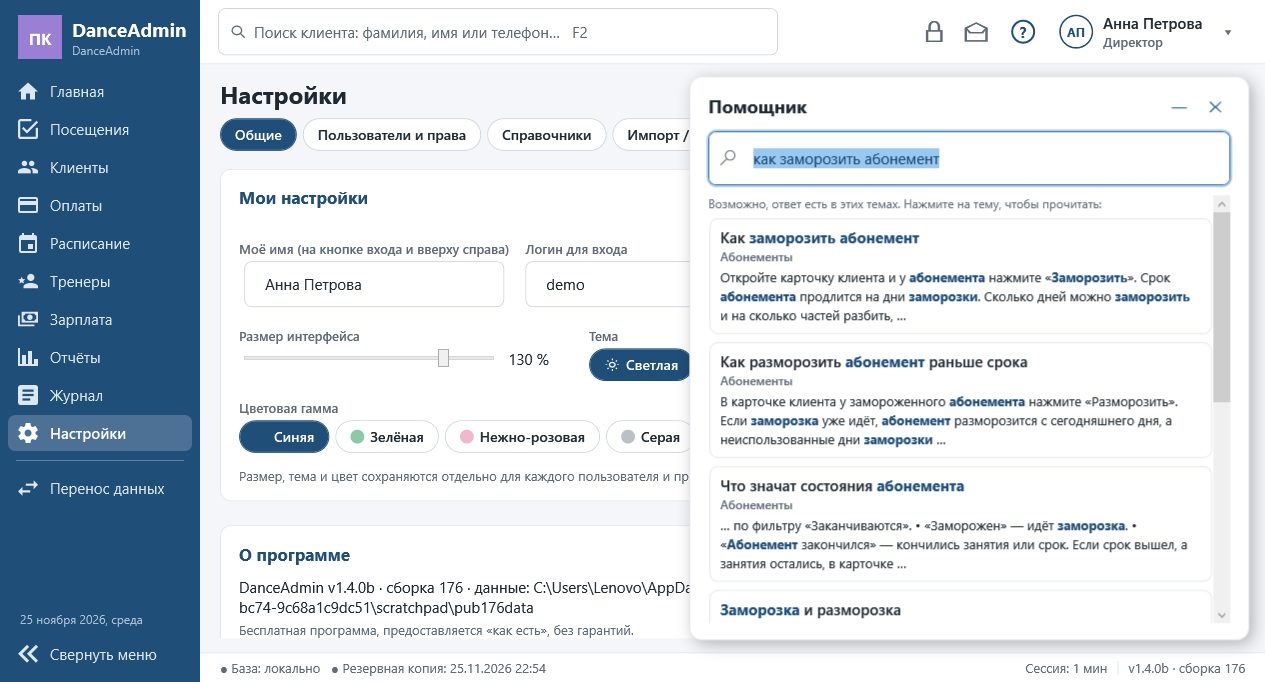
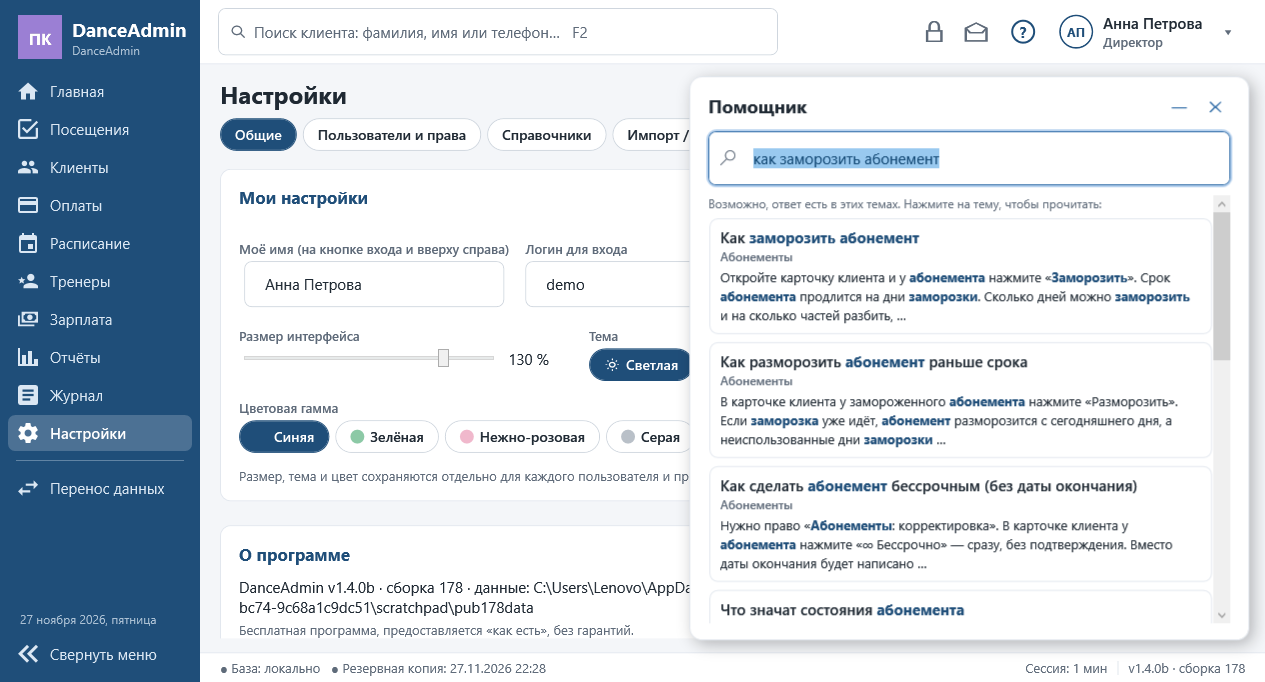
v1.4.0-beta.178

diff --git a/CHANGELOG.md b/CHANGELOG.md
@@ -2,6 +2,24 @@
 
 Формат версий: `Major.Minor.Patch.Build` (ТЗ §24).
 
+## 1.4.0b, сборка 178 — 27.11.2026
+
+- **Бессрочный абонемент:** в карточке клиента «∞ Бессрочно» (право «Абонементы: корректировка», без подтверждения) — `Membership.NoEnd` (миграция `V178_MembershipNoEnd`), `MembershipRules.IsPerpetual` = индивидуальное или `NoEnd`; вместо даты окончания «бессрочно» (и после «куплен …», и в PDF истории), в «Посещениях» дата окончания не пишется; «заканчивается» — только по оставшимся занятиям. Только у абонементов с числом занятий. «Вернуть срок» (`SalesService.ReturnTerm`, окно `ReturnTermWindow`): «Действует до» — прежний срок с заморозками; у не начатого — без даты. `MembershipRules.Start` у «бессрочного» тоже считает обычный `EndDate` (для возврата). Заморозка бессрочного не пишет «9999» (окно и журнал); «Требует внимания» на «Главной» — «бессрочно».
+- **Причины заморозки** в «Расширенных» (`freeze.reasons`, `Settings.FreezeReasonList`, «Вернуть стандартные»), кнопки в окне «Заморозка» — из списка; входят в экспорт «Расширенных настроек».
+- **Галочки:** во всей программе переключаются только щелчком по квадратику (`CheckBoxHitArea`, обработчик класса `CheckBox`); подпись — подсказки работают, ссылки и кнопки внутри подписи тоже; самопроверка в режиме снимков `checkbox_hit_area.txt`.
+- **«Что нового»:** утверждённый текст по сборкам `docs/WHATS_NEW.txt` (встроен как `WHATS_NEW.txt`, разбор — `Core/Services/WhatsNew`); сотруднику — пункты сборок новее той, что он видел (`whatsnew.seen.<id>`) или что стояла до обновления (`app.updated_from`; база без записанной сборки — от 168). release-notes в окно больше не идут.
+
+## 1.4.0b, сборка 177 — 27.11.2026
+
+- **Перенос данных → архив:** в строке неперенесённого клиента кнопка «В архив» слева от группы — без подтверждения (`DataTransferService.Archive`, хватает права «Перенос данных»). Третья вкладка «Архив» (`Mode` todo/done/archive, `ArchivedRowVM`): имя — ссылка на карточку, телефон, «В архиве с …» (по журналу), «Вернуть из архива» → в «Неперенесённые» (`Unarchive`, `TransferState = 0`). Шапка и строка переноса вынесены в `Views/TransferTemplates.xaml`.
+- **«Перенос не сделан»:** при включённом «Переносе данных» у неперенесённых неархивных клиентов красный ⚠ справа от имени в «Посещениях» (списки, параллельные, карточки, поиск «добавить») и «Клиентах» (таблица, карточки) — `TransferGate`, конвертер `TransferVis`, стиль `TransferIcon`. Отметка такого клиента запрещена (`AttendanceService.Mark`/`UnfreezeAndMark` → `TransferNeededException`); любая отметка в программе (строка, поиск, «отметить всех», разморозка, карточка клиента, продажа с отметкой) сначала показывает «Сначала перенос данных»: «Сделать сейчас» — окно переноса этого клиента поверх (`TransferGate.ShowTransfer`), после «Перенести» отметка продолжается; без права «Перенос данных» — только «Понятно».
+- Клиент, заведённый в программе при включённом переносе, сразу «обработан» (`TransferState = 1`); «Перенести» с пустыми полями больше не ошибка — клиент в «Перенесённых» с пометкой «без абонементов и долга».
+- **Право «Настройки → Обновления»** (`settings.updates`): «⬆ Доступна версия…», «Проверить обновления» и «Обновить сейчас» — директор и роли с этим правом (`Updater.Allowed`). По умолчанию ни у кого.
+- **«Пользователи и права»:** создавать, переименовывать и удалять роли и наборы прав может и сотрудник с этим правом, права любой роли (и своей) — тоже (`RoleService.DemandRoles`, `SettingsVM.CanManageRoles`).
+- **Логин и пароль** (`AuthService.NormalizeLogin`, `ValidatePassword`): логин — английские буквы, цифры, «_» «.», 2–30 символов, уникальный (и при создании пользователя); пароль — английские буквы, цифры, «#» «_», от 4 символов; в сообщении — какие символы нельзя. Прежние логины и пароли работают до первой смены (проверка только при задании).
+- **Меню у имени вверху:** «Закрытие смены» перед «Выход» (право «Закрытие смены», как кнопка на «Главной»).
+- **«Что нового» после обновления** (`WhatsNewWindow`): каждому сотруднику один раз при входе — строки текущей версии из встроенного `release-notes.txt` без исправлений, кнопка «Прочитал(-ла)». Настройки `app.build`, `app.updated_build`, `whatsnew.seen.<id>`; база с работой без `app.build` считается обновлённой; новая база — окна нет.
+
 ## 1.4.0b, сборка 176 — 25.11.2026
 
 - **Руководство администратора:** окно открывается на 90% высоты экрана (по рабочей области, шире — до 1100). Слева — панель «Оглавление» с разделами 1…16 (`GuideWindow.BuildToc`): щелчок прокручивает руководство к заголовку раздела, при прокрутке подсвечивается текущий раздел (в самом конце — последний видимый). Названия разделов в оглавлении — обычным регистром («1. Начало работы»).

diff --git a/RELEASE_NOTES.md b/RELEASE_NOTES.md
@@ -1,22 +1,24 @@
-# DanceAdmin 1.4.0b (сборка 176) — бета
+# DanceAdmin 1.4.0b (сборка 178) — бета
 
 Предварительный выпуск (Pre-release). Последний обычный выпуск — 1.3.0 (сборка 168): если нужна проверенная версия, берите его.
 
 **Скачать:**
-- `DanceAdmin_Setup_1.4.0b-176.exe` — установщик (рекомендуется);
-- `DanceAdmin_1.4.0b-176_portable.zip` — переносная версия, без установки (exe, лицензия, руководство).
+- `DanceAdmin_Setup_1.4.0b-178.exe` — установщик (рекомендуется);
+- `DanceAdmin_1.4.0b-178_portable.zip` — переносная версия, без установки (exe, лицензия, руководство).
 
 Windows 10/11 x64, .NET внутри. Данные — в `C:\ProgramData\DanceAdmin\`. Установка поверх прежней версии сохраняет базу (перед обновлением делается резервная копия).
 
-## Что нового по сравнению с бетой 173
-- **Руководство администратора:** окно почти на всю высоту экрана, слева — оглавление: щелчок по разделу переходит к нему, текущий раздел подсвечен.
-- **Снимок рабочего компьютера:** снимки нескольких рабочих компьютеров в одной папке не смешиваются — в имени файла название компьютера (поле «Название этого компьютера»), у каждого хранятся свои 3 последних; если компьютеров несколько, на другом компьютере можно выбрать, чей снимок смотреть. Кнопка «ⓘ Инструкция» в «Настройки → Расширенные».
-- **Справочники:** строки групп абонементов, залов, групп клиентов и возрастных категорий подсвечиваются при наведении, щелчок — изменить; в «Группах клиентов» «клиентов: N» и «добавить в группу» — ровными столбиками.
-- **Посещения → «Занятия дня»:** зал — строкой под тренером, зелёным — только «● сейчас».
+## Что нового по сравнению с бетой 176
+- **Бессрочный абонемент:** кнопка «∞ Бессрочно» в карточке клиента — вместо даты окончания «бессрочно», абонемент действует, пока не кончатся занятия; «Вернуть срок» снова даёт дату окончания.
+- **Перенос данных:** кнопка «В архив» в строке клиента и вкладка «Архив»; красный значок ⚠ у клиентов, чьи данные ещё не перенесены — отметить такого клиента можно после переноса, «Сделать сейчас» открывает перенос прямо при отметке.
+- **«Что нового»:** после обновления каждый сотрудник один раз видит окно с новыми возможностями — только то, что появилось после версии, которую он видел.
+- **Права:** новое право «Настройки → Обновления» (обновлять программу может не только директор); с правом «Пользователи и права» можно создавать, переименовывать и удалять роли.
+- **Логин и пароль:** логин — английские буквы, цифры, «_» и «.»; пароль — английские буквы, цифры, «#» и «_». Прежние логины и пароли работают до первой смены.
+- «Закрытие смены» — и в меню у имени вверху справа; причины заморозки настраиваются в «Расширенных»; галочки переключаются только щелчком по квадратику.
 
 ## Важно
 - Бета приходит в программе только тем, у кого в «О программе» отмечено «Сообщать о бета-версиях».
-- Снимки, сохранённые версией 173 (без названия компьютера), удаляются при первом новом сохранении — это нормально.
+- Если в «Расширенных» включён «Перенос данных», после обновления у всех ещё не перенесённых клиентов появится значок ⚠, и отметить их можно будет после переноса.
 - Делайте резервные копии (Настройки → Резервные копии).
 - Программа не подписана сертификатом: Windows SmartScreen покажет предупреждение — «Подробнее» → «Выполнить в любом случае».
 - Об ошибках и пожеланиях — в Issues.
